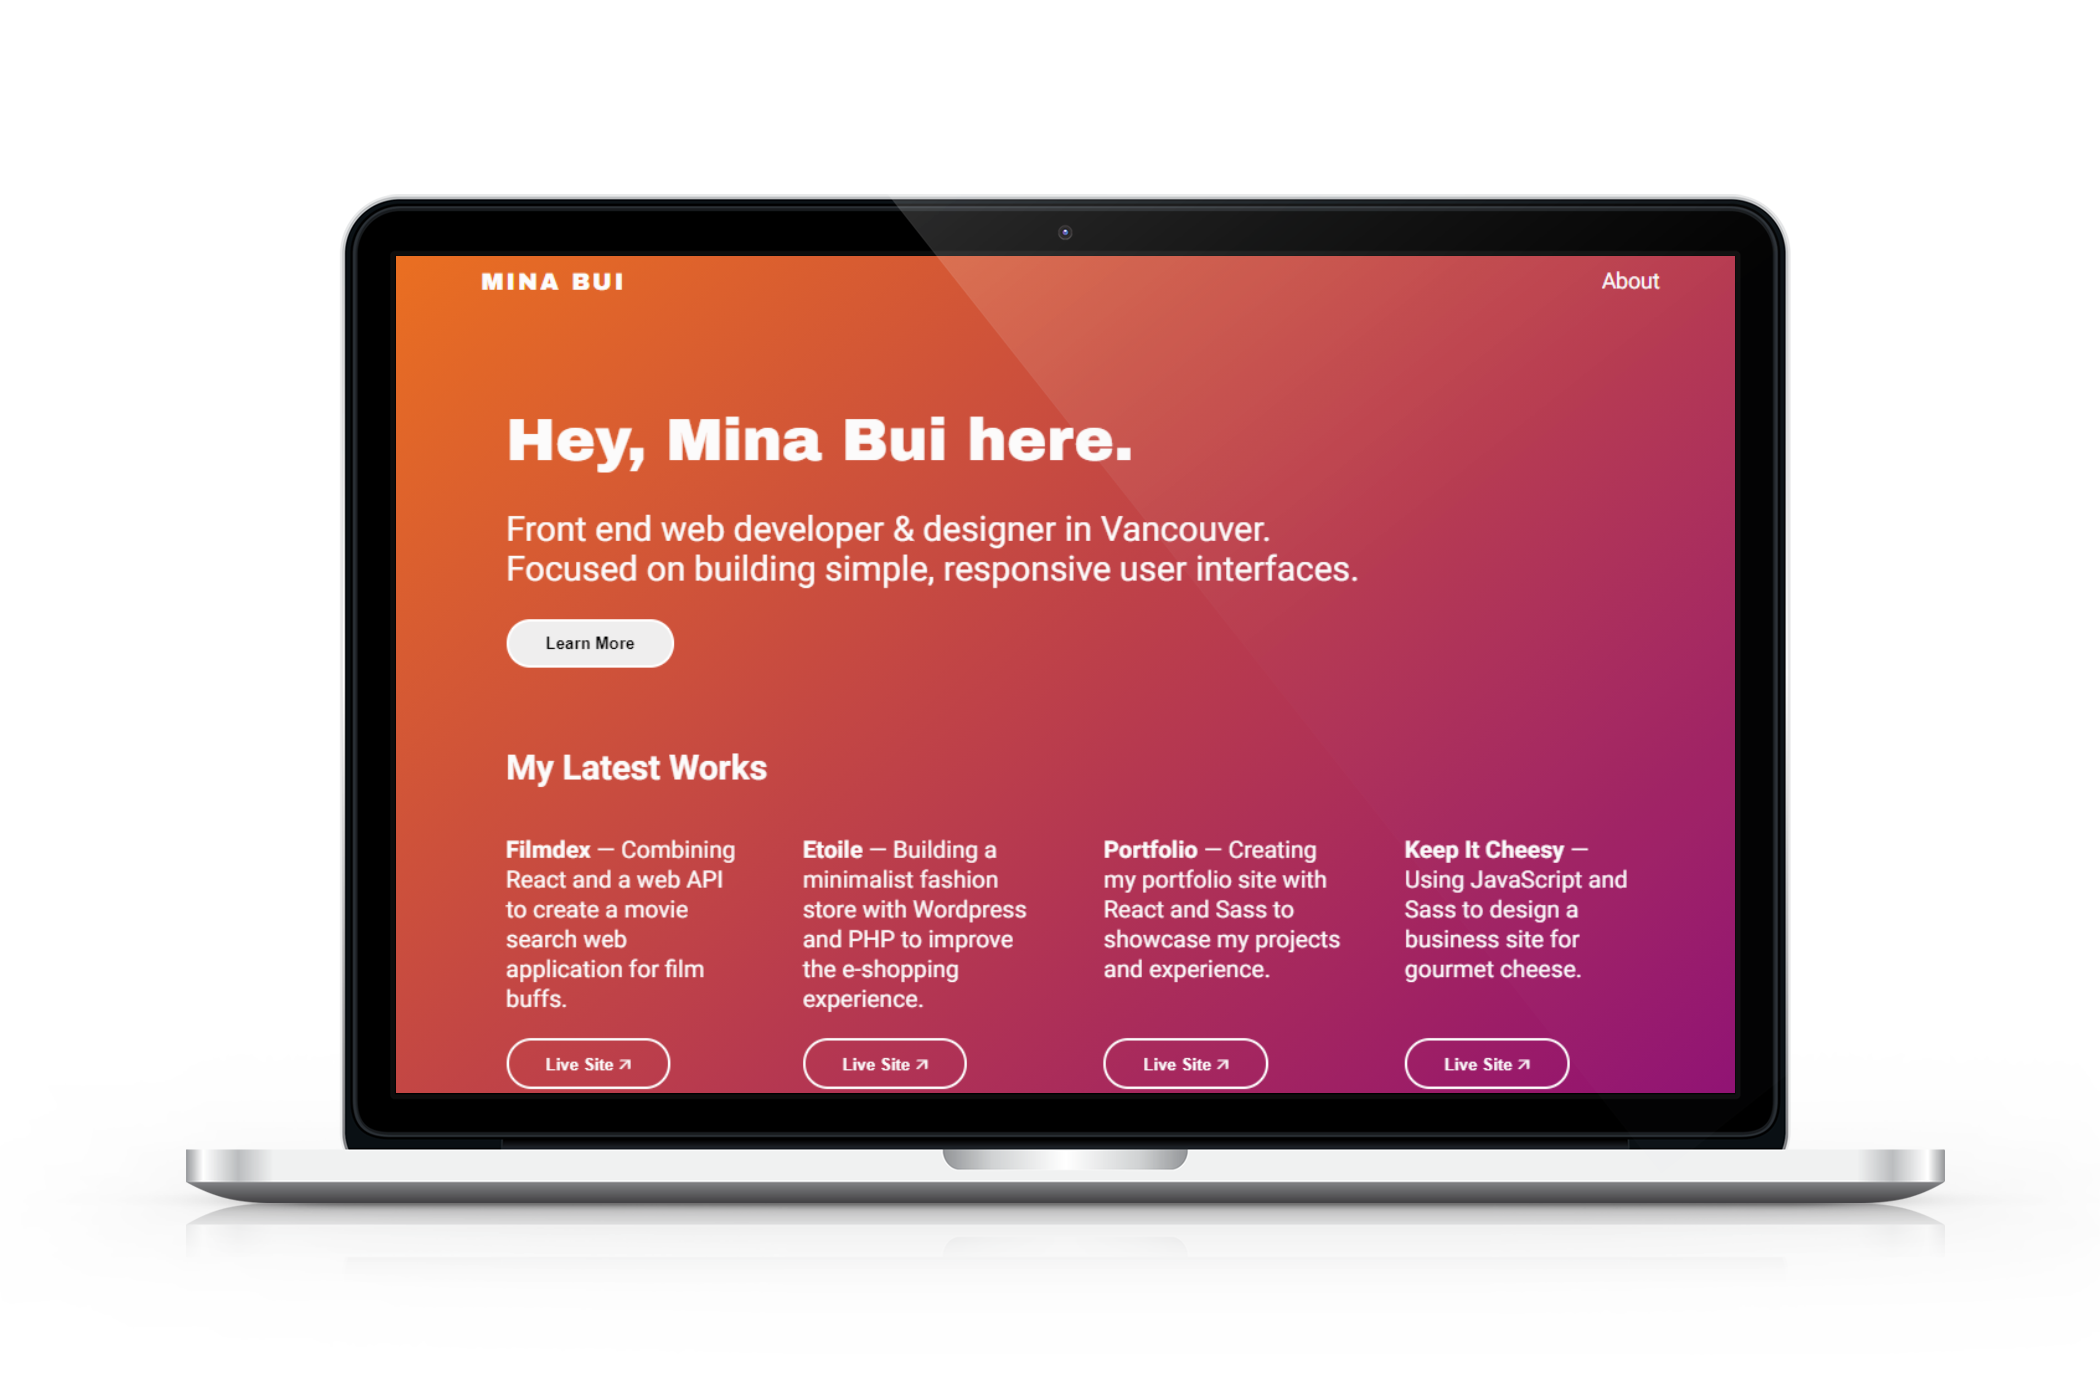
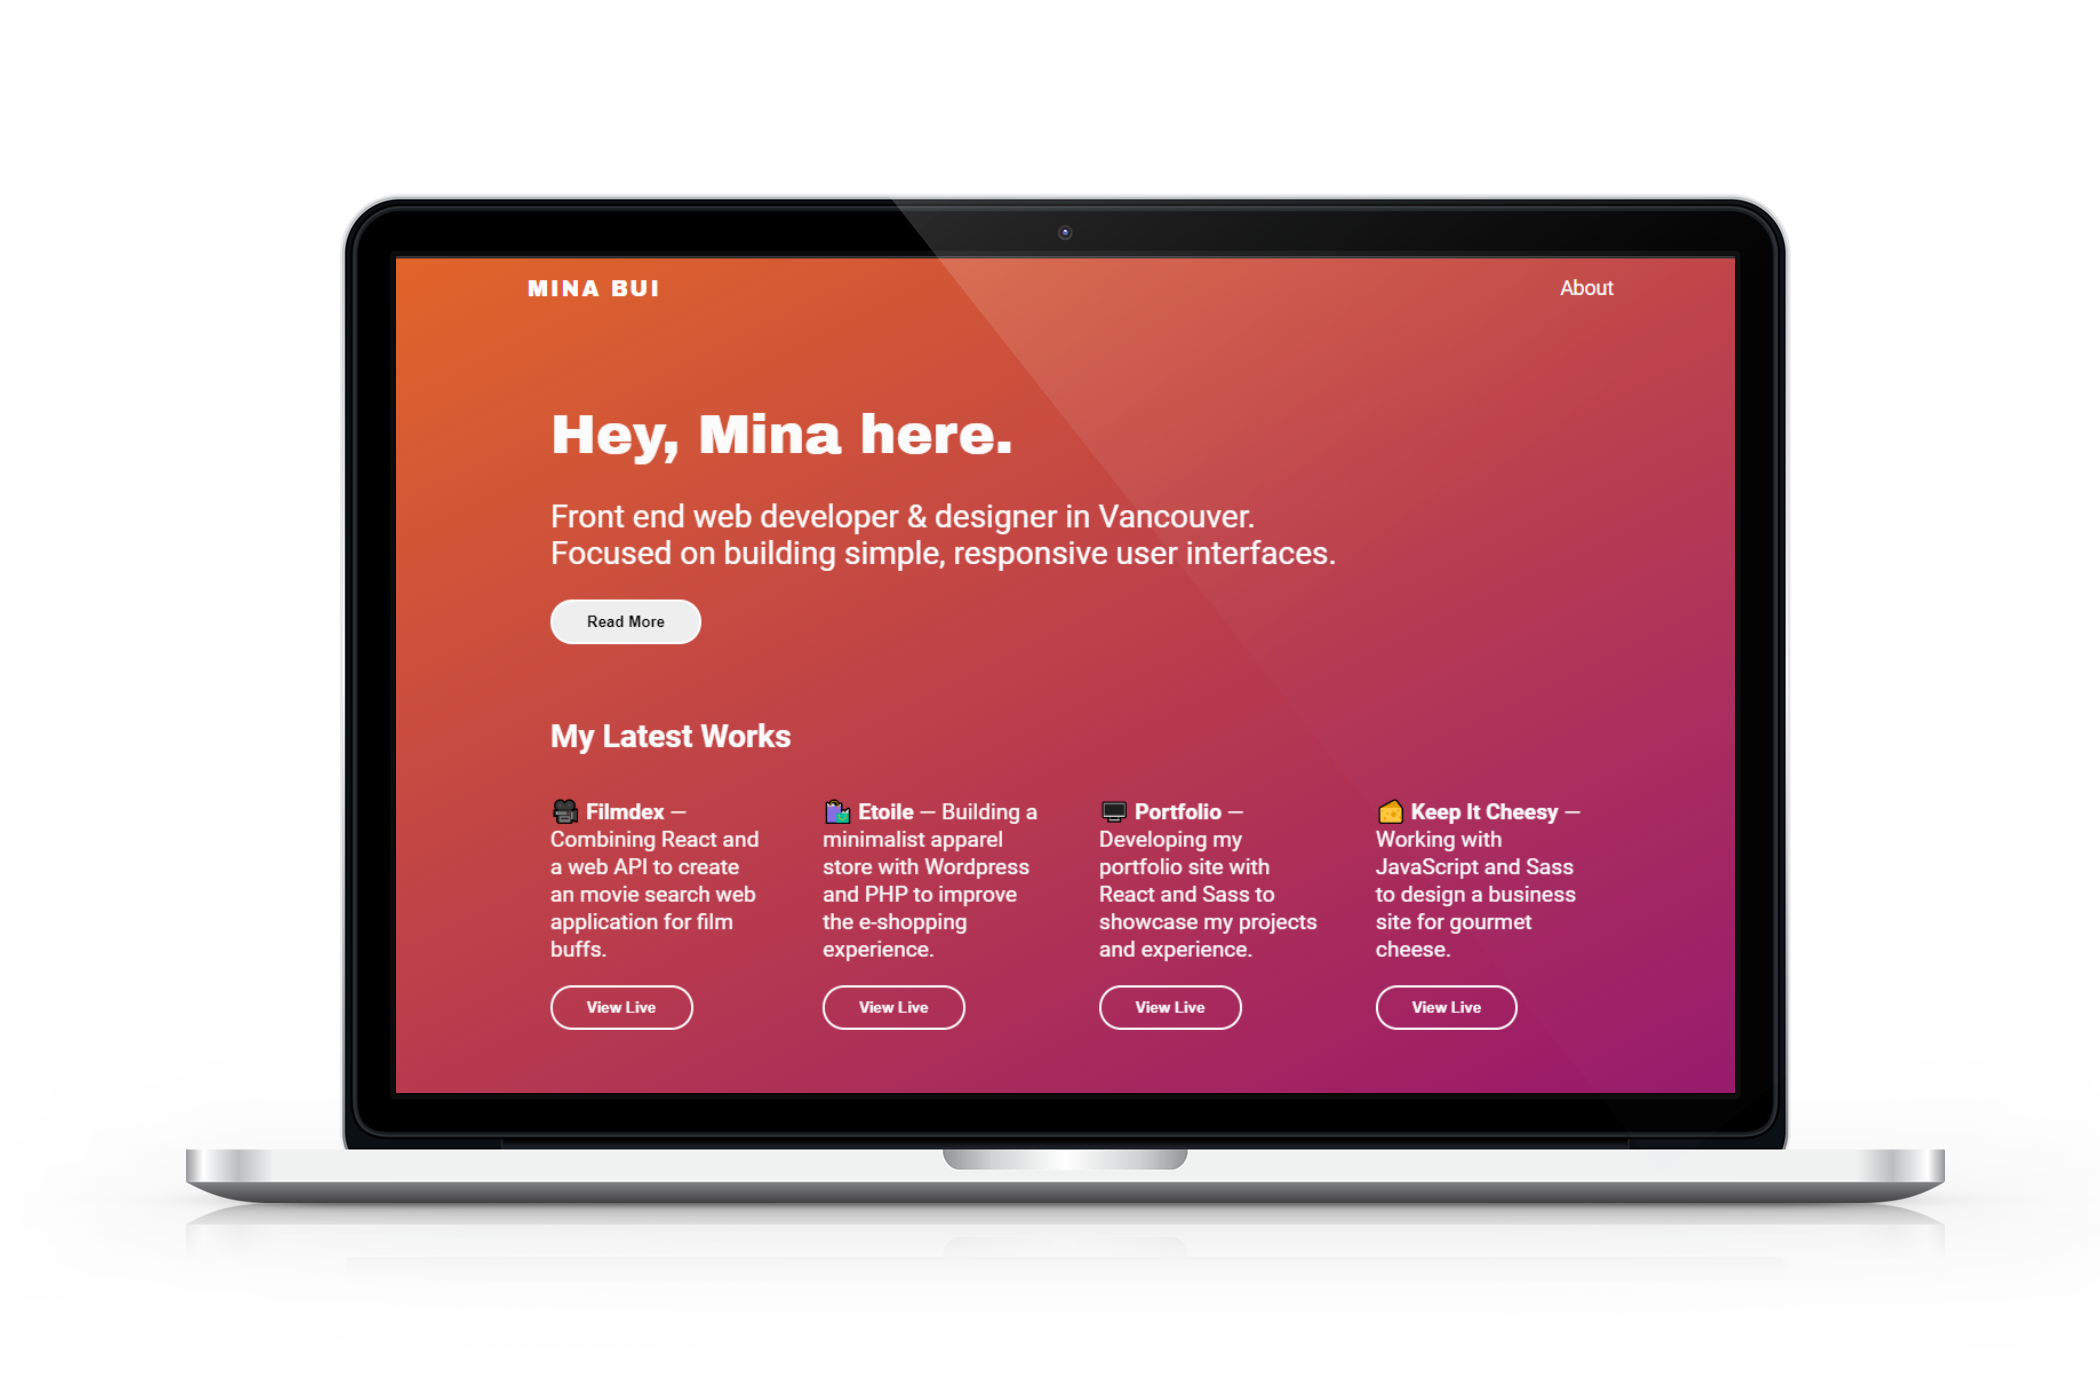
updates

diff --git a/portfolio-app/src/components/MovieApp.js b/portfolio-app/src/components/MovieApp.js
@@ -10,7 +10,7 @@ import SingleMockup from '../images/filmdex-desktop/filmdex-singlemovie-desktop-
 import FavouritesMockup from '../images/filmdex-desktop/filmdex-favourites-desktop-mockup.png';
 import AboutMockup from '../images/filmdex-desktop/filmdex-about-desktop-mockup.jpg';
 // Mobile Mockups
-import HomeMockupMob from '../images/filmdex-desktop/filmdex-home-mobile-mockup.png';
+import HomeMockupMob from '../images/filmdex-desktop/filmdex-home-mobile-mockup-2.png';
 import SingleMockupMob from '../images/filmdex-desktop/filmdex-singlemovie-mobile-mockup.png';
 import AboutMockupMob from '../images/filmdex-desktop/filmdex-about-mobile-mockup.png';
 import FavouritesMockupMob from '../images/filmdex-desktop/filmdex-favourites-mobile-mockup.png';
@@ -84,7 +84,7 @@ const Projects = () => (
 			<meta name="keywords"
 				content="JavaScript developer, React developer, remote web developer, web redesign services, Front end web developer Vancouver, web designer Vancouver, responsive user interfaces, interactive web applications, site designs, BCIT front end developer, Vancouver web design, hire web designer Vancouver, BCIT TWD, BCIT FED" />
 		</Helmet>
-		
+
 		<main>
 			<section>
 				<Reveal>
@@ -181,10 +181,6 @@ const Projects = () => (
 											title="Click to view full screen" />
 									</a>
 								</SRLWrapper>
-							</div>
-						</div>
-						<div className="project-detail-gallery">
-							<div className="project-detail-wireframe-brochure">
 								<SRLWrapper options={options}>
 									<a href={SingleMockupMob}>
 										<img src={SingleMockupMob}
@@ -203,7 +199,8 @@ const Projects = () => (
 									<a href={AboutMockupMob}>
 										<img src={AboutMockupMob}
 											alt="The About page in mobile, which is also similar to the desktop version."
-											title="Click to view full screen" />
+											title="Click to view full screen"
+											className="hidden-on-mobile" />
 									</a>
 								</SRLWrapper>
 							</div>
@@ -231,7 +228,7 @@ const Projects = () => (
 
 								<a href={FavouritesImage}>
 									<img src={FavouritesImage}
-										alt="The Favourites page, where users can see which movies they have favourited (which are stored in localStorage). By clicking on the movies on this page, they can click the Star button again to unfavourite a movie."
+										alt="The Favourites page (featuring my personal favorites), where users can see which movies they have favourited (which are stored in localStorage). By clicking on the movies on this page, they can click the Star button again to unfavourite a movie."
 										title="Click to view full screen" />
 								</a>
 
@@ -284,7 +281,7 @@ const Projects = () => (
 					</div>
 					<div className="project-contact-me">
 						<p className="mobile">
-							Questions about the process? <a href="mailto:hello@minabui.com" title="mailto:hello@minabui.com" target="_blank" rel="noreferrer" ><br class="mobile" />Let's talk. </a>
+							📬 Questions about the process? <a href="mailto:hello@minabui.com" title="mailto:hello@minabui.com" target="_blank" rel="noreferrer" ><br class="mobile" />Let's talk.</a>
 						</p>
 						<a href="mailto:hello@minabui.com" title="mailto:hello@minabui.com" target="_blank" rel="noreferrer" className="hidden-on-mobile" >
 							<img src={PopupMessage} alt="Popup computer message" className="popup-message-container" />

diff --git a/portfolio-app/src/components/Home.js b/portfolio-app/src/components/Home.js
@@ -45,7 +45,7 @@ const Home = (props) => {
                         <div className="home-project-list">
                             <div className="capstone-card">
                                 <p>
-                                    <Link to={'/capstone'}><b>Etoile</b></Link> &#x2014; Building a minimalist fashion store with Wordpress and PHP to improve the e-shopping experience.
+                                    <Link to={'/capstone'}>🛍 <b>Etoile</b></Link> &#x2014; Building a minimalist apparel store with Wordpress and PHP to improve the e-shopping experience.
                             </p>
                             </div>
                             <div className="capstone-live-link">
@@ -58,7 +58,7 @@ const Home = (props) => {
 
                             <div className="movieapp-card">
                                 <p>
-                                    <Link to={'/movieapp'}><b>Filmdex</b></Link> &#x2014; Combining React and a web API to create a movie search web application for film buffs.
+                                    <Link to={'/movieapp'}>🎥 <b>Filmdex</b></Link> &#x2014; Combining React and a web API to create an movie search web application for film buffs.
                             </p>
                             </div>
                             <div className="movieapp-live-link">
@@ -71,7 +71,7 @@ const Home = (props) => {
 
                             <div className="portfolio-card">
                                 <p>
-                                    <Link to={'/portfolio'}><b>Portfolio</b></Link> &#x2014; Creating my portfolio site with React and Sass to showcase my projects and experience.
+                                    <Link to={'/portfolio'}>🖥 <b>Portfolio</b></Link> &#x2014; Developing my portfolio site with React and Sass to showcase my projects and experience.
                             </p>
                             </div>
                             <div className="portfolio-live-link">
@@ -84,12 +84,12 @@ const Home = (props) => {
 
                             <div className="brochure-card">
                                 <p>
-                                    <Link to={'/brochure'}><b>Keep It Cheesy</b></Link> &#x2014; Using JavaScript and Sass to design a business site for gourmet cheese.
+                                    <Link to={'/brochure'}>🧀 <b>Keep It Cheesy</b></Link> &#x2014; Working with JavaScript and Sass to design a business site for gourmet cheese.
                             </p>
                             </div>
                             <div className="brochure-live-link">
-                                <a href="https://mbui.bcitwebdeveloper.ca/keep-it-cheesy/index.html"
-                                    title="https://mbui.bcitwebdeveloper.ca/keep-it-cheesy/index.html"
+                                <a href="https://mbui.bcitwebdeveloper.ca/brochure/index.html"
+                                    title="https://mbui.bcitwebdeveloper.ca/brochure/index.html"
                                     target="_blank" rel="noreferrer" >
                                     <button className="round-btn">View Live </button>
                                 </a>

diff --git a/portfolio-app/src/components/Brochure.js b/portfolio-app/src/components/Brochure.js
@@ -18,10 +18,10 @@ import BrochureAboutWireframeMob from '../images/brochure-desktop/brochure-about
 // Import SimpleReactLightbox
 import { SRLWrapper } from "simple-react-lightbox";
 // Import screenshots of website
-import HomeImage from '../images/brochure-desktop/brochure-home-desktop.png';
-import ProcessImage from '../images/brochure-desktop/brochure-process-desktop.png';
-import AboutImage from '../images/brochure-desktop/brochure-about-desktop.png';
-import ContactImage from '../images/brochure-desktop/brochure-contact-desktop.png';
+import HomeImage from '../images/brochure-desktop/brochure-home-ss.png';
+import ProcessImage from '../images/brochure-desktop/brochure-process-ss.png';
+import AboutImage from '../images/brochure-desktop/brochure-about-ss.png';
+import ContactImage from '../images/brochure-desktop/brochure-contact-ss.png';
 // Import ReactPlayer to show video of site walkthrough
 import ReactPlayer from 'react-player/youtube';
 import PopupMessage from '../images/popup-message.png';
@@ -270,7 +270,7 @@ const Brochure = () => (
 					<div className="project-detail">
 						<h3 className="project-detail-title">Links</h3>
 						<div className="project-detail-links">
-							<a href="https://mbui.bcitwebdeveloper.ca/keep-it-cheesy/index.html" title="https://mbui.bcitwebdeveloper.ca/keep-it-cheesy/index.html" target="_blank" rel="noreferrer" >
+							<a href="https://mbui.bcitwebdeveloper.ca/brochure/index.html" title="https://mbui.bcitwebdeveloper.ca/brochure/index.html" target="_blank" rel="noreferrer" >
 								<button className="round-btn">Live Site </button>
 							</a>
 							<a href="https://github.com/v-nguyen6/HTML_CSS_P03_Business_Brochure" title="https://github.com/v-nguyen6/HTML_CSS_P03_Business_Brochure" target="_blank" rel="noreferrer" >
@@ -280,7 +280,7 @@ const Brochure = () => (
 					</div>
 					<div className="project-contact-me">
 						<p className="mobile">
-							Questions about the process? <a href="mailto:hello@minabui.com" title="mailto:hello@minabui.com" target="_blank" rel="noreferrer" ><br class="mobile" />Let's talk. </a>
+							📬 Questions about the process? <a href="mailto:hello@minabui.com" title="mailto:hello@minabui.com" target="_blank" rel="noreferrer" ><br class="mobile" />Let's talk. </a>
 						</p>
 						<a href="mailto:hello@minabui.com" title="mailto:hello@minabui.com" target="_blank" rel="noreferrer" className="hidden-on-mobile" >
 							<img src={PopupMessage} alt="Popup computer message" className="popup-message-container" />

diff --git a/portfolio-app/src/components/About.js b/portfolio-app/src/components/About.js
@@ -33,7 +33,7 @@ const About = () => (
 								Growing up surrounded by BC's landscape sparked an interest in sustainability, so I went to study  Geography &#x26; GIS at SFU, where I built reports and maps using spatial data. (I think this is what led me to web design).
                 			</p>
 							<p>
-								Today, I'm available for new challenges.<br /> Shoot me an email at <a href="mailto:hello@minabui.com" title="mailto:hello@minabui.com" target="_blank" rel="noreferrer" >hello@minabui.com </a> and let's talk about it. Cheers! ✌
+								Today, I'm available for new challenges.<br /> Shoot me an email at <a href="mailto:hello@minabui.com" title="mailto:hello@minabui.com" target="_blank" rel="noreferrer" >hello@minabui.com </a> and let's talk. Cheers! ✌
                 			</p>
 							<br />
 							<div className="about-resume">
@@ -55,12 +55,18 @@ const About = () => (
 
 					</div>
 					<div className="about-fun-facts">
-						<h4>Specialties</h4>
+						<h4>💻 Specialties</h4>
 						<ul>
 							<li>JavaScript</li>
 							<li>React.js</li>
 							<li>Responsive Design</li>
 							<li>WordPress Development</li>
+						</ul>
+						<h4>💡 Fun Facts</h4>
+						<ul>
+							<li>I'm a hamster &#x26; plant mom</li>
+							<li>I'm currently learning digital art</li>
+							<li>I love to go thrifting</li>
 						</ul>
 					</div>
 

diff --git a/portfolio-app/src/components/Portfolio.js b/portfolio-app/src/components/Portfolio.js
@@ -147,7 +147,8 @@ const Portfolio = () => (
 								<a href={PortfolioHomeMob}>
 									<img src={PortfolioHomeMob}
 										alt="A wireframe of the Home mobile page, starting with a welcoming banner, an introduction of who I am, and a button to see the About Me section. Below is a list of projects I completed at BCIT."
-										title="Click to view full screen" />
+										title="Click to view full screen"
+										className="hidden-on-mobile" />
 								</a>
 							</SRLWrapper>
 							<SRLWrapper options={options}>
@@ -208,7 +209,7 @@ const Portfolio = () => (
 					</div>
 					<div className="project-contact-me">
 						<p className="mobile">
-							Questions about the process? <a href="mailto:hello@minabui.com" title="mailto:hello@minabui.com" target="_blank" rel="noreferrer" ><br class="mobile" />Let's talk. </a>
+							📬 Questions about the process? <a href="mailto:hello@minabui.com" title="mailto:hello@minabui.com" target="_blank" rel="noreferrer" ><br class="mobile" />Let's talk. </a>
 						</p>
 						<a href="mailto:hello@minabui.com" title="mailto:hello@minabui.com" target="_blank" rel="noreferrer" className="hidden-on-mobile" >
 							<img src={PopupMessage} alt="Popup computer message" className="popup-message-container" />

diff --git a/portfolio-app/src/components/Capstone.js b/portfolio-app/src/components/Capstone.js
@@ -232,7 +232,7 @@ const Capstone = () => (
 					</div>
 					<div className="project-contact-me">
 						<p className="mobile">
-							Questions about the process? <a href="mailto:hello@minabui.com" title="mailto:hello@minabui.com" target="_blank" rel="noreferrer" ><br class="mobile" />Let's talk. </a>
+							📬 Questions about the process? <a href="mailto:hello@minabui.com" title="mailto:hello@minabui.com" target="_blank" rel="noreferrer" ><br class="mobile" />Let's talk. </a>
 						</p>
 						<a href="mailto:hello@minabui.com" title="mailto:hello@minabui.com" target="_blank" rel="noreferrer" className="hidden-on-mobile" >
 							<img src={PopupMessage} alt="Popup computer message" className="popup-message-container" />

diff --git a/portfolio-app/public/index.html b/portfolio-app/public/index.html
@@ -52,6 +52,15 @@
       work correctly both with client-side routing and a non-root public URL.
       Learn how to configure a non-root public URL by running `npm run build`.
     -->
+  <!-- Global site tag (gtag.js) - Google Analytics -->
+  <script async src="https://www.googletagmanager.com/gtag/js?id=G-75JQL69QJZ"></script>
+  <script>
+    window.dataLayer = window.dataLayer || [];
+    function gtag() { dataLayer.push(arguments); }
+    gtag('js', new Date());
+
+    gtag('config', 'G-75JQL69QJZ');
+  </script>
 </head>
 
 <body>

diff --git a/portfolio-app/src/styles/components/about.scss b/portfolio-app/src/styles/components/about.scss
@@ -6,6 +6,7 @@
 }
 .about-headshot {
     grid-area: about-image;
+    margin-bottom: 30px;
 }
 .about-resume {
     grid-area: about-resume;
@@ -27,6 +28,13 @@
     margin: 0 auto;
     h4 {
         font-weight: bold;
+        font-size: 1.3em;
+        line-height: 10px;
+        margin-top: 35px;
+    }
+    ul li {
+        font-size: 1.1em;
+        line-height: 25px;
     }
 }
 .about-wrapper {

diff --git a/portfolio-app/src/styles/components/projects.scss b/portfolio-app/src/styles/components/projects.scss
@@ -188,13 +188,14 @@ code {
 // Scroll to top button
 .back-to-top {
     position: fixed;
-    bottom: 30px;
-    right: 30px;
+    bottom: 15px;
+    right: 15px;
     z-index: 100;
     padding: 10px 12px;
     border: none;
     background-color: $darkGrey;
     fill: white;
+    transform: scale(0.8);
     color: white;
     box-shadow: 2px 2px 2px black;
     border-radius: 100px;

diff --git a/portfolio-app/src/styles/components/_footer.scss b/portfolio-app/src/styles/components/_footer.scss
@@ -10,7 +10,7 @@ footer {
     text-align: center;
     //
 
-    margin: 0px 0px 10px 0px;
+    margin: 0px 0px 30px 0px;
     p {
         &:first-child {
             margin-top: 0;
